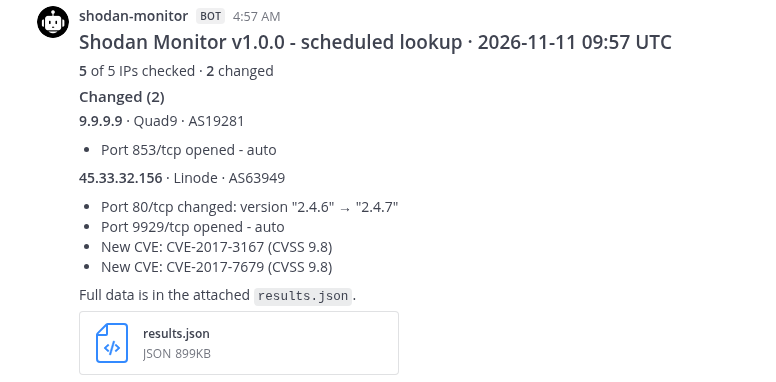
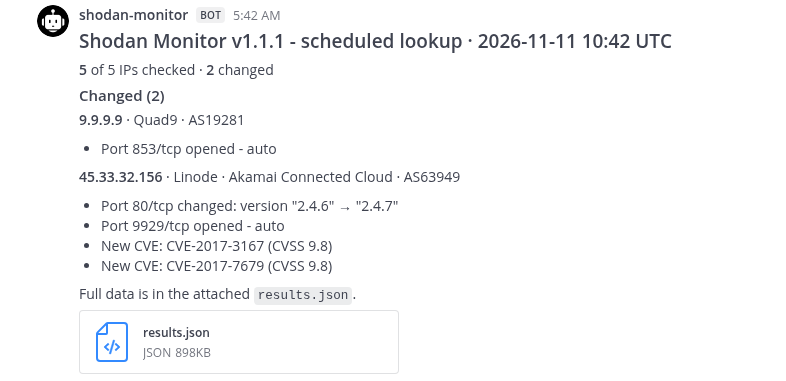
Show the ISP in reports and release 1.1.1
Changed IPs and first lookups now show "Organization · ISP · ASN"
instead of "Organization · ASN". The ISP is shown once when it is the
same as the organization.

diff --git a/server/report.go b/server/report.go
@@ -8,18 +8,26 @@ import (
 // maxCVEsInSummary is how many CVEs a single-IP post lists before "... and N more".
 const maxCVEsInSummary = 10
 
-// hostLabel is the short "Org · ASN" shown next to an IP.
+// hostLabel is the short "Organization · ISP · ASN" shown next to an IP.
 func hostLabel(r LookupResult, old *Snapshot) string {
-	org, asn := "", ""
+	org, isp, asn := "", "", ""
 	if r.Host != nil {
-		org, asn = r.Host.Organization, r.Host.ASN
+		org, isp, asn = r.Host.Organization, r.Host.ISP, r.Host.ASN
 	}
-	if org == "" && old != nil {
-		org, asn = old.Org, old.ASN
+	if org == "" && isp == "" && old != nil {
+		org, isp, asn = old.Org, old.ISP, old.ASN
 	}
+	return joinDistinct(org, isp, asn)
+}
+
+// joinDistinct joins the non-empty values with " · ", skipping repeats
+// (the ISP is often the same as the organization).
+func joinDistinct(values ...string) string {
 	parts := []string{}
-	for _, s := range []string{org, asn} {
-		if s != "" {
+	seen := map[string]bool{}
+	for _, s := range values {
+		if s != "" && !seen[s] {
+			seen[s] = true
 			parts = append(parts, s)
 		}
 	}
@@ -36,8 +44,8 @@ func describeResult(r LookupResult) string {
 	}
 	h := r.Host
 	parts := []string{}
-	if h.Organization != "" {
-		parts = append(parts, h.Organization)
+	if who := joinDistinct(h.Organization, h.ISP); who != "" {
+		parts = append(parts, who)
 	}
 	if len(h.OpenPorts) > 0 {
 		parts = append(parts, fmt.Sprintf("%s (%s)", plural(len(h.OpenPorts), "open port", "open ports"), joinInts(h.OpenPorts)))

diff --git a/server/report_test.go b/server/report_test.go
@@ -1,0 +1,40 @@
+package main
+
+import (
+	"strings"
+	"testing"
+)
+
+func TestHostLabelShowsISP(t *testing.T) {
+	cases := []struct {
+		org, isp, asn string
+		want          string
+	}{
+		{"Linode", "Akamai Connected Cloud", "AS63949", "Linode · Akamai Connected Cloud · AS63949"},
+		{"Google LLC", "Google LLC", "AS15169", "Google LLC · AS15169"}, // same ISP shown once
+		{"", "Example ISP", "AS64500", "Example ISP · AS64500"},
+		{"Example Org", "", "", "Example Org"},
+	}
+	for _, c := range cases {
+		r := LookupResult{IP: "203.0.113.10", Status: statusFound, Host: &hostInfo{Organization: c.org, ISP: c.isp, ASN: c.asn}}
+		if got := hostLabel(r, nil); got != c.want {
+			t.Errorf("hostLabel(%q, %q, %q) = %q, want %q", c.org, c.isp, c.asn, got, c.want)
+		}
+	}
+
+	// Not in Shodan any more: the label comes from the saved result.
+	old := &Snapshot{Org: "Old Org", ISP: "Old ISP", ASN: "AS1"}
+	if got := hostLabel(LookupResult{IP: "203.0.113.10", Status: statusNotFound}, old); got != "Old Org · Old ISP · AS1" {
+		t.Errorf("hostLabel from saved result = %q", got)
+	}
+}
+
+func TestDescribeResultShowsISP(t *testing.T) {
+	r := LookupResult{IP: "203.0.113.10", Status: statusFound, Host: &hostInfo{
+		Organization: "Linode", ISP: "Akamai Connected Cloud", OpenPorts: []int{22, 80},
+	}}
+	got := describeResult(r)
+	if !strings.HasPrefix(got, "Linode · Akamai Connected Cloud · 2 open ports (22, 80)") {
+		t.Errorf("describeResult = %q", got)
+	}
+}

diff --git a/CHANGELOG.md b/CHANGELOG.md
@@ -7,6 +7,13 @@ and this project adheres to [Semantic Versioning](https://semver.org/spec/v2.0.0
 
 ## [Unreleased]
 
+## [1.1.1] - 2026-11-11
+
+### Changed
+
+- Reports show the ISP next to the organization for changed IPs and first lookups (shown once when
+  both are the same).
+
 ## [1.1.0] - 2026-11-11
 
 ### Added
